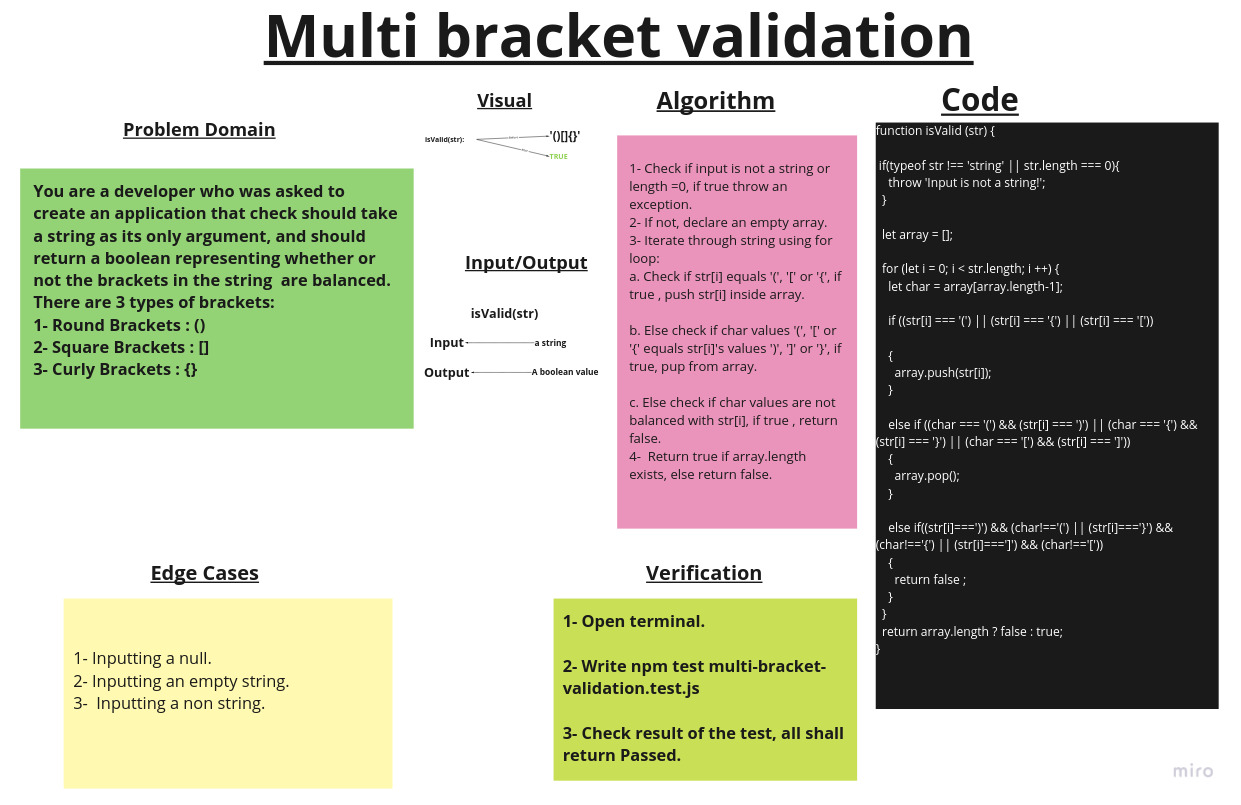
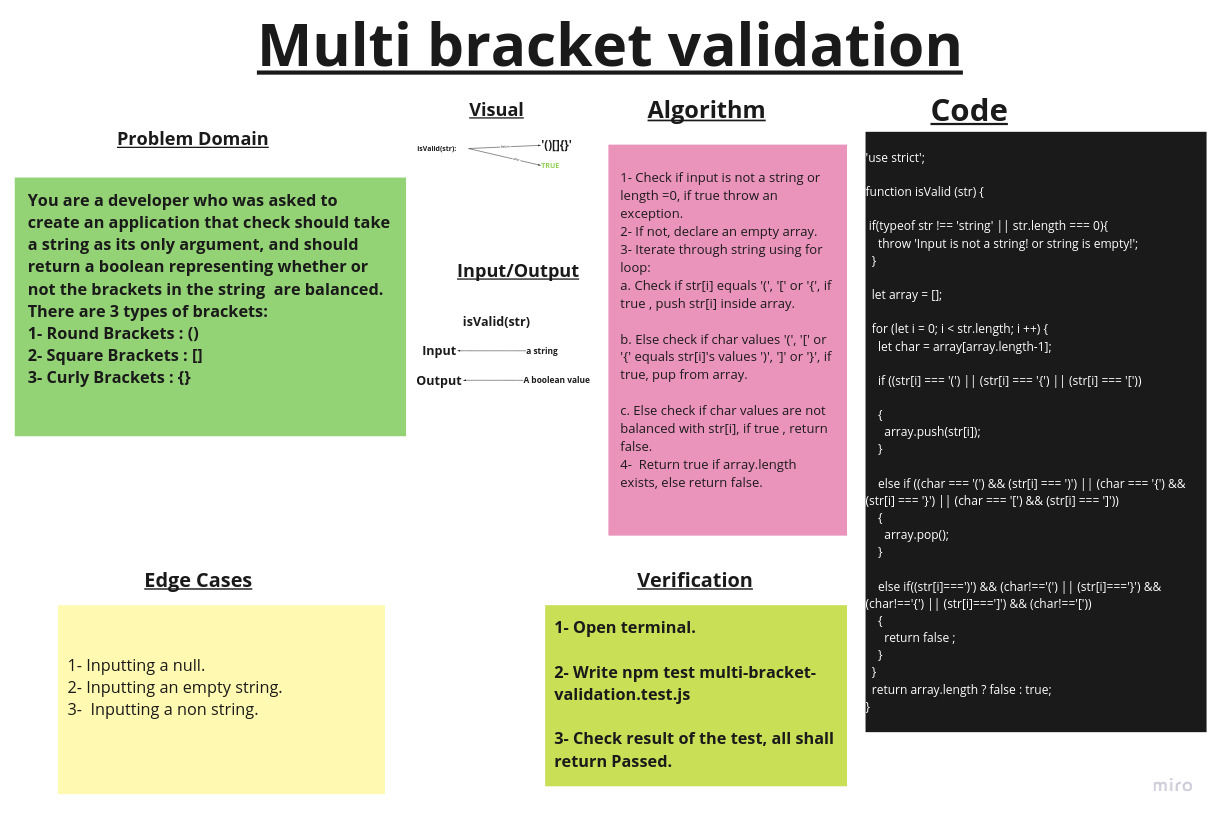
done multi braces validator

diff --git a/javascript/Data-Structures/__test__/multi-bracket-validation.test.js b/javascript/Data-Structures/__test__/multi-bracket-validation.test.js
@@ -25,13 +25,13 @@ describe('Checks if string is valid', () => {
   it('If input is not a string, throw an exception', () => {
 
 
-    expect(() => isValid(1)).toThrow('Input is not a string!');
+    expect(() => isValid(1)).toThrow('Input is not a string! or string is empty!');
 
   });
 
   it('If input is an empty string, throw an exception', () => {
 
-    expect(() => isValid('')).toThrow('Input is not a string!');
+    expect(() => isValid('')).toThrow('Input is not a string! or string is empty!');
 
   });
 });

diff --git a/javascript/Data-Structures/multi-bracket-validation/multi-bracket-validation.js b/javascript/Data-Structures/multi-bracket-validation/multi-bracket-validation.js
@@ -4,7 +4,7 @@
 function isValid (str) {
 
   if(typeof str !== 'string' || str.length === 0){
-    throw 'Input is not a string!';
+    throw 'Input is not a string! or string is empty!';
   }
 
   let array = [];
